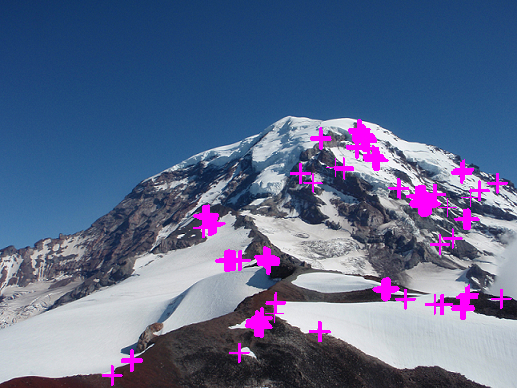
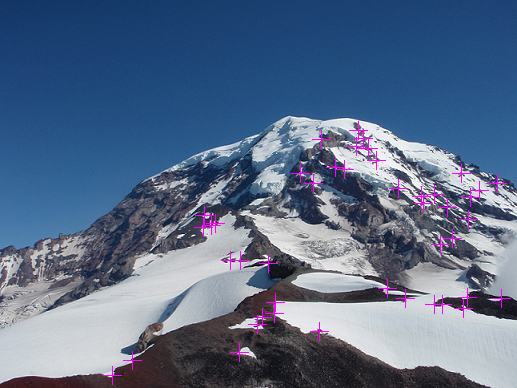
Corrected eveything, Was issue in nms

diff --git a/vision-hw2/src/harris_image.c b/vision-hw2/src/harris_image.c
@@ -244,7 +244,7 @@ image nms_image(image im, int w)
             
             for(k=-w; k<w+1; k++){
                 for(l=-w; l<w+1; l++){
-                    float comparator_pixel_response = get_pixel(im, k, l, 0);
+                    float comparator_pixel_response = get_pixel(im, i+k, j+l, 0);
                     if(comparator_pixel_response > current_pixel_response){
                         set_pixel(r, i, j, 0, -999999);
                         goto done_with_current_pixel;
